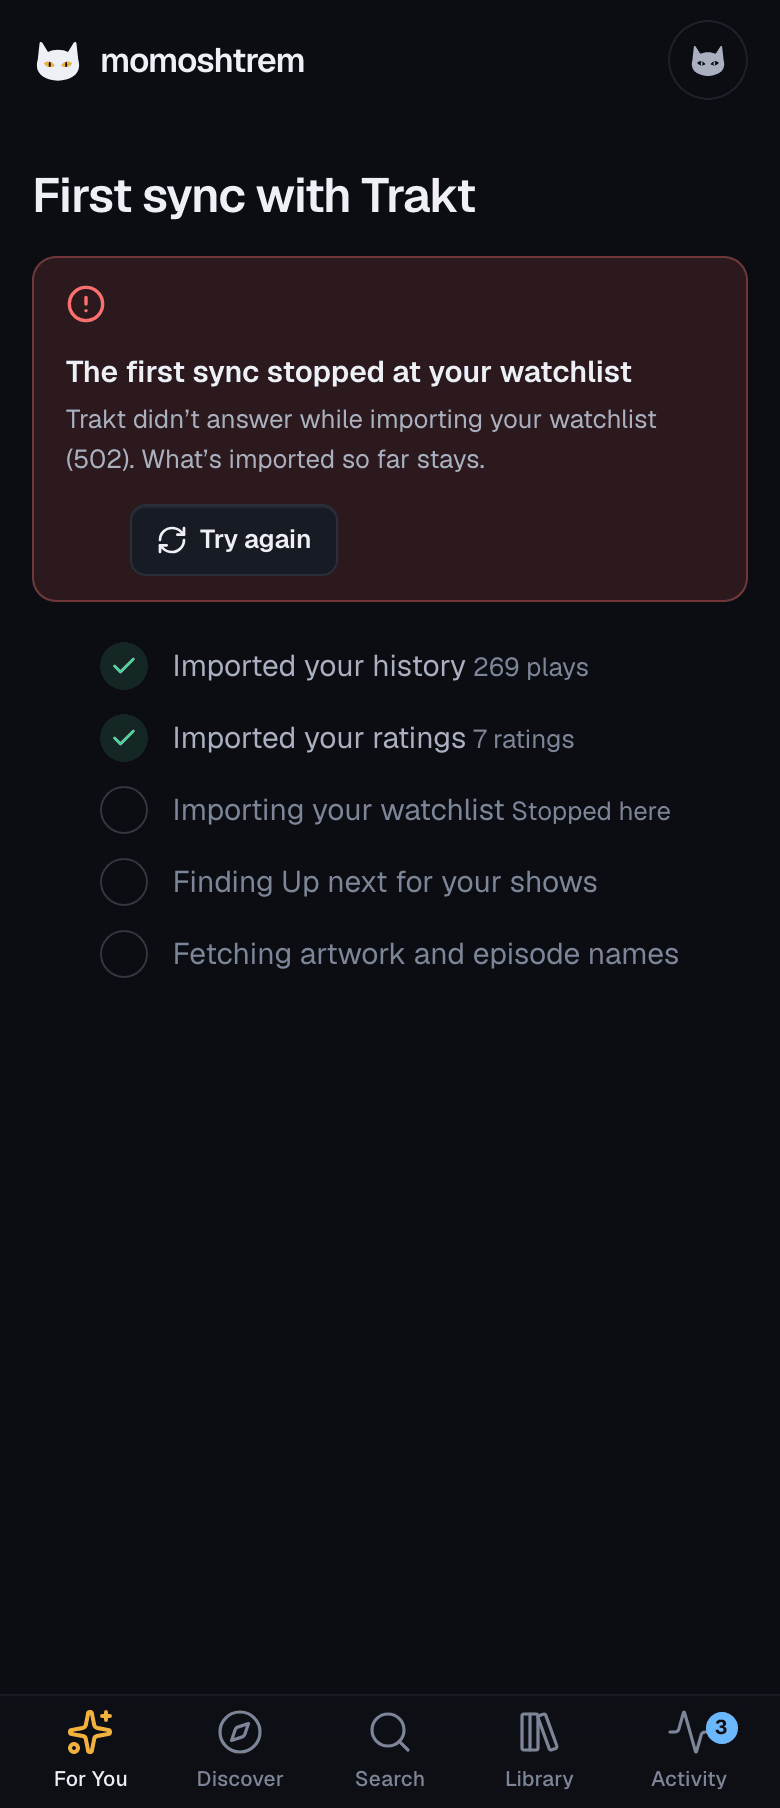
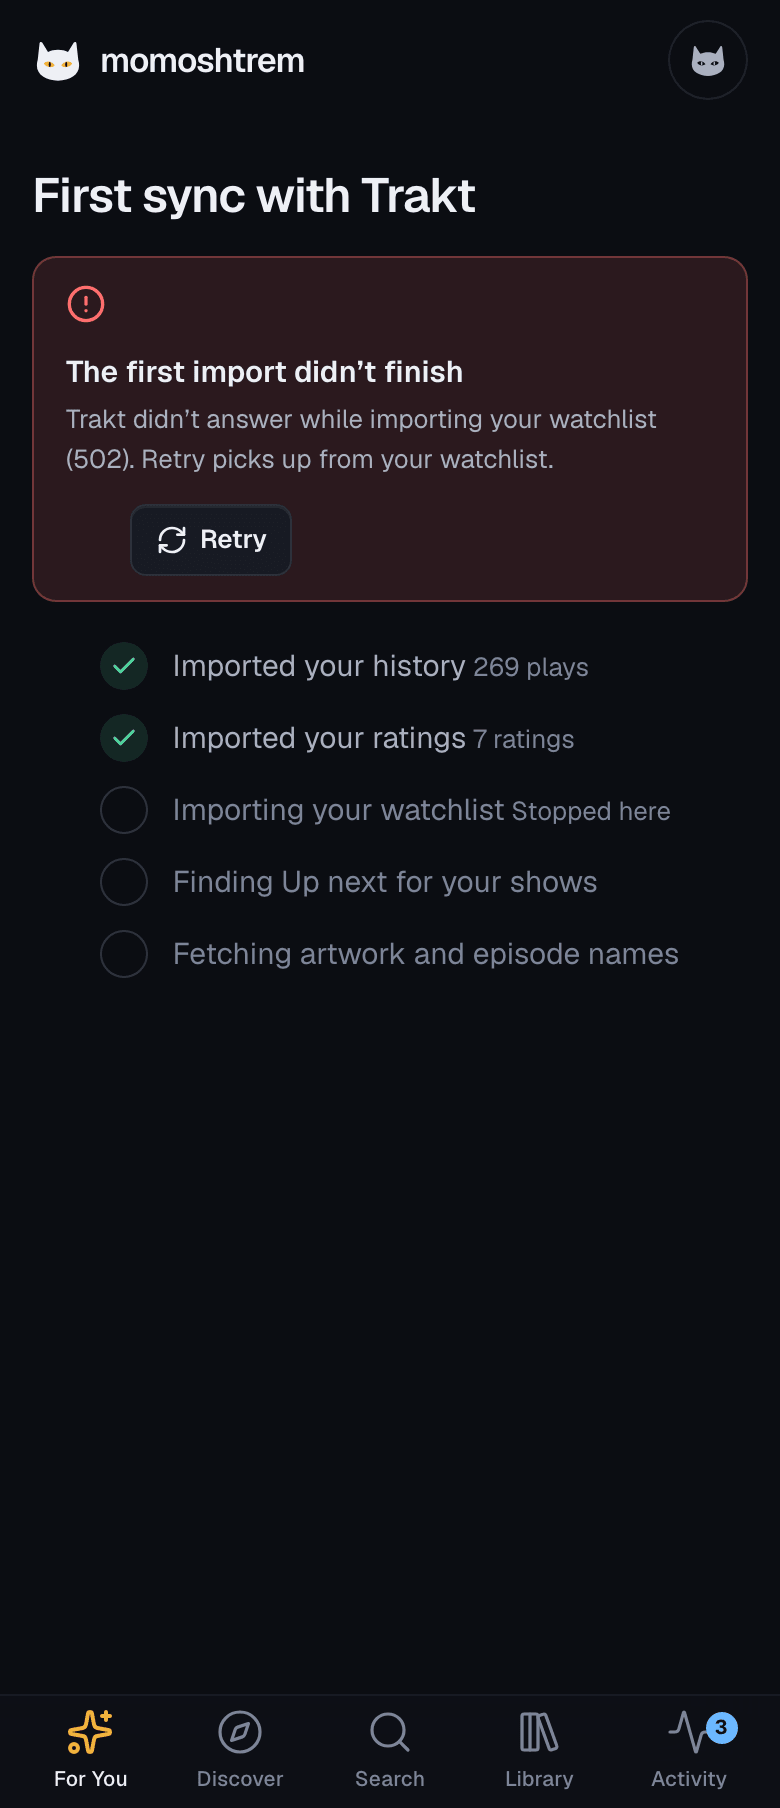
refactor(web): For You speaks Settings › Trakt's words for the first sync and reauth (#135)
After rebasing on #134: the stopped first sync uses syncErrorCopy and
Retry through useTraktSync, the reauth banner REAUTH_TITLE and
reauthBody, and the step order IMPORT_STEPS (lib/settings/trakt.ts).
For You keeps its sentence-style step labels. The two long e2e flows get
90 s; screenshots refreshed.

Claude-Session: https://claude.ai/code/session_019GQBomCeHCZ1Px3iF8wgxg

Changed region(s): [[0.1846, 0.2478, 0.7077, 0.3097], [0.2462, 0.1858, 0.6154, 0.2168], [0.6462, 0.1858, 0.8, 0.2168]]

diff --git a/web/src/lib/for-you/state.ts b/web/src/lib/for-you/state.ts
@@ -1,4 +1,5 @@
 import type { TraktIntegration, TraktSync, TraktSyncStep } from '@/lib/api/contract';
+import { IMPORT_STEPS } from '@/lib/settings/trakt';
 import { formatNumber, plural } from '@/lib/title/format';
 
 /**
@@ -36,8 +37,8 @@ export function forYouState({ trakt, libraryTotal }: ForYouInput): ForYouState {
 }
 
 // ---- The first sync's steps -------------------------------------------------------
-
-export const SYNC_STEP_ORDER: readonly TraktSyncStep[] = ['history', 'ratings', 'watchlist', 'progress', 'details'];
+// For You says each step as a sentence ("Found Up next for 6 shows"); Settings › Trakt
+// keeps its compact labels and owns the shared copy (lib/settings/trakt.ts).
 
 type Progress = TraktSync['progress'];
 
@@ -46,8 +47,6 @@ interface StepCopy {
   done: (progress: Progress) => string;
   /** The count beside a finished step. */
   detail?: (progress: Progress) => string | null;
-  /** "stopped at …" */
-  noun: string;
 }
 
 const STEP_COPY: Record<TraktSyncStep, StepCopy> = {
@@ -55,29 +54,24 @@ const STEP_COPY: Record<TraktSyncStep, StepCopy> = {
     running: 'Importing your history',
     done: () => 'Imported your history',
     detail: (p) => (p.plays > 0 ? plural(p.plays, 'play') : null),
-    noun: 'your history',
   },
   ratings: {
     running: 'Importing your ratings',
     done: () => 'Imported your ratings',
     detail: (p) => (p.ratings > 0 ? plural(p.ratings, 'rating') : null),
-    noun: 'your ratings',
   },
   watchlist: {
     running: 'Importing your watchlist',
     done: () => 'Imported your watchlist',
     detail: (p) => (p.watchlist > 0 ? plural(p.watchlist, 'title') : null),
-    noun: 'your watchlist',
   },
   progress: {
     running: 'Finding Up next for your shows',
     done: (p) => (p.shows > 0 ? `Found Up next for ${plural(p.shows, 'show')}` : 'Checked your shows for Up next'),
-    noun: 'Up next',
   },
   details: {
     running: 'Fetching artwork and episode names',
     done: () => 'Fetched artwork and episode names',
-    noun: 'the artwork',
   },
 };
 
@@ -94,9 +88,9 @@ export interface SyncStepView {
  * rest pending. After an error the failed step says "Stopped here".
  */
 export function firstSyncSteps(sync: TraktSync): SyncStepView[] {
-  const current = sync.step === null ? -1 : SYNC_STEP_ORDER.indexOf(sync.step);
+  const current = sync.step === null ? -1 : IMPORT_STEPS.indexOf(sync.step);
   const failed = sync.status === 'error';
-  return SYNC_STEP_ORDER.map((step, index) => {
+  return IMPORT_STEPS.map((step, index) => {
     const copy = STEP_COPY[step];
     if (sync.status === 'idle' || index < current) {
       return { step, label: copy.done(sync.progress), detail: copy.detail?.(sync.progress) ?? null, state: 'done' };
@@ -126,9 +120,4 @@ export function importedSoFar(progress: Progress): string | null {
 export function firstSyncDetail(sync: TraktSync): string {
   const imported = importedSoFar(sync.progress);
   return imported ? `Imported ${imported} so far. Up next fills in as it goes.` : 'Reading your history from Trakt. Up next fills in as it goes.';
-}
-
-/** "The first sync stopped at your watchlist". */
-export function firstSyncStoppedTitle(sync: TraktSync): string {
-  return sync.step ? `The first sync stopped at ${STEP_COPY[sync.step].noun}` : 'The first sync stopped';
 }

diff --git a/web/src/components/for-you/FirstSync.tsx b/web/src/components/for-you/FirstSync.tsx
@@ -1,27 +1,24 @@
 'use client';
 
-import { useMutation, useQueryClient } from '@tanstack/react-query';
 import { RefreshCw } from 'lucide-react';
 import { Banner, Button, Loader, Steps } from '@/components/ui';
+import { useTraktSync } from '@/hooks/useTraktActions';
 import type { TraktIntegration } from '@/lib/api/contract';
-import { traktApi, traktKeys } from '@/lib/api/endpoints';
-import { firstSyncDetail, firstSyncSteps, firstSyncStoppedTitle } from '@/lib/for-you/state';
+import { firstSyncDetail, firstSyncSteps } from '@/lib/for-you/state';
+import { syncErrorCopy } from '@/lib/settings/trakt';
 
 /**
  * The first import after connecting Trakt (HANDOFF §4.3: named steps, never
  * just a spinner): Noir's eyes while it runs, what's in so far, and the
- * steps. When it stops with an error, the eyes go and Try again picks it up
- * at the step that failed.
+ * steps. When it stops with an error, the eyes go and Retry picks it up at
+ * the step that failed, with the same words as Settings › Trakt.
  */
 export function FirstSync({ trakt }: { trakt: TraktIntegration }) {
-  const queryClient = useQueryClient();
   const { sync } = trakt;
   const failed = sync.status === 'error';
-  const retry = useMutation({
-    mutationFn: traktApi.sync,
-    // The answer is the integration with its sync running again, so polling resumes at once
-    onSuccess: (next) => queryClient.setQueryData(traktKeys.integration, next),
-  });
+  // The answer goes into the integration's cache, so polling resumes at once
+  const retry = useTraktSync();
+  const stopped = syncErrorCopy(sync);
 
   const steps = firstSyncSteps(sync).map(({ label, detail, state }) => ({ label, detail: detail ?? undefined, state }));
 
@@ -33,14 +30,14 @@ export function FirstSync({ trakt }: { trakt: TraktIntegration }) {
           <Banner
             tone="error"
             role="alert"
-            title={firstSyncStoppedTitle(sync)}
+            title={stopped.title}
             action={
               <Button size="sm" onClick={() => retry.mutate()} loading={retry.isPending}>
-                <RefreshCw size={16} aria-hidden="true" /> Try again
+                <RefreshCw size={16} aria-hidden="true" /> Retry
               </Button>
             }
           >
-            {retry.isError ? retry.error.message : (sync.error ?? 'Trakt didn’t answer.')} What’s imported so far stays.
+            {retry.isError ? `${retry.error.message} What’s imported so far stays.` : stopped.body}
           </Banner>
         </div>
       ) : (

diff --git a/web/e2e/for-you.spec.ts b/web/e2e/for-you.spec.ts
@@ -99,6 +99,8 @@ test.describe('For You', () => {
   });
 
   test('Play in Infuse and Add on episode cards', async ({ page }) => {
+    // Two sheets' worth of client navigations and an add; a busy dev server needs more than 30 s
+    test.setTimeout(90_000);
     await signIn(page, '/');
     await heroSettled(page);
     await card(page, 'Up next', 'Frieren').getByRole('button', { name: /^Play Frieren.* S01E27 in Infuse$/ }).click();
@@ -170,15 +172,18 @@ test.describe('For You', () => {
     await expectAccessibleAndContained(page);
   });
 
-  test('first sync stopped: Try again picks it up, and For You fills in when it’s done', async ({ page }) => {
+  test('first sync stopped: Retry picks it up, and For You fills in when it’s done', async ({ page }) => {
+    // The mock imports one step per 3 s poll
+    test.setTimeout(90_000);
     await scenario(page, 'trakt-sync-error');
     await signIn(page, '/');
-    await expect(page.getByText('The first sync stopped at your watchlist')).toBeVisible();
-    await expect(page.getByText(/Trakt didn’t answer while importing your watchlist \(502\)/)).toBeVisible();
+    // The same words as Settings › Trakt (lib/settings/trakt.ts)
+    await expect(page.getByText('The first import didn’t finish')).toBeVisible();
+    await expect(page.getByText(/Trakt didn’t answer while importing your watchlist \(502\)\. Retry picks up from your watchlist\./)).toBeVisible();
     await expect(page.getByRole('listitem').filter({ hasText: 'Importing your watchlist' })).toContainText('Stopped here');
     await expectAccessibleAndContained(page);
 
-    await page.getByRole('button', { name: 'Try again' }).click();
+    await page.getByRole('button', { name: 'Retry' }).click();
     await expect(page.getByText(/^Imported .* so far/)).toBeVisible();
     // The mock imports a step per poll (every 3 s); then the personal page takes over
     await expect(region(page, 'Your Trakt watchlist')).toBeVisible({ timeout: 30_000 });

diff --git a/web/src/components/for-you/ForYouView.tsx b/web/src/components/for-you/ForYouView.tsx
@@ -19,6 +19,7 @@ import { DEFAULT_FILTERS, type DiscoverFilters } from '@/lib/discover/filters';
 import { newEpisodeCard, upNextCard } from '@/lib/for-you/episode-card';
 import { heroPicks, localDateKey } from '@/lib/for-you/hero';
 import { forYouState } from '@/lib/for-you/state';
+import { REAUTH_TITLE, reauthBody } from '@/lib/settings/trakt';
 import { plural } from '@/lib/title/format';
 import { FirstSync } from './FirstSync';
 import { HomeHero, HomeHeroSkeleton } from './HomeHero';
@@ -201,14 +202,14 @@ function PersonalHome({ username, trakt }: { username: string; trakt: TraktInteg
         {relinking && (
           <Banner
             tone="warning"
-            title={trakt.state === 'pending' ? 'Finish connecting Trakt' : 'Trakt needs you to sign in again'}
+            title={trakt.state === 'pending' ? 'Finish connecting Trakt' : REAUTH_TITLE}
             action={
               <ButtonLink href={TRAKT_SETTINGS_HREF} size="sm">
                 {trakt.state === 'pending' ? 'Open Settings' : 'Reconnect'}
               </ButtonLink>
             }
           >
-            {trakt.reauth_reason ?? 'Your history stays here; reconnect to keep it in sync.'}
+            {reauthBody(trakt)}
           </Banner>
         )}
         {allFailed ? (

diff --git a/web/src/__tests__/lib/for-you/state.test.ts b/web/src/__tests__/lib/for-you/state.test.ts
@@ -1,5 +1,5 @@
 import type { TraktIntegration, TraktSync } from '@/lib/api/contract';
-import { firstSyncDetail, firstSyncSteps, firstSyncStoppedTitle, forYouState, importedSoFar, traktLinked } from '@/lib/for-you/state';
+import { firstSyncDetail, firstSyncSteps, forYouState, importedSoFar, traktLinked } from '@/lib/for-you/state';
 
 const PROGRESS = { plays: 2184, plays_total: 2184, ratings: 312, watchlist: 41, shows: 6 };
 
@@ -84,7 +84,6 @@ describe('the first sync', () => {
     const steps = firstSyncSteps(failed);
     expect(steps.map((step) => step.state)).toEqual(['done', 'done', 'pending', 'pending', 'pending']);
     expect(steps[2]).toMatchObject({ label: 'Importing your watchlist', detail: 'Stopped here' });
-    expect(firstSyncStoppedTitle(failed)).toBe('The first sync stopped at your watchlist');
   });
 
   it('sums up what’s in so far', () => {

diff --git a/web/e2e/screenshots.spec.ts b/web/e2e/screenshots.spec.ts
@@ -644,7 +644,7 @@ test.describe('for you', () => {
   test('first sync stopped', async ({ page }, testInfo) => {
     await scenario(page, 'trakt-sync-error');
     await signIn(page, '/');
-    await page.getByText('The first sync stopped at your watchlist').waitFor();
+    await page.getByText('The first import didn’t finish').waitFor();
     await settle(page);
     await shoot(page, testInfo, 'home/sync-error', { fullPage: true });
   });
